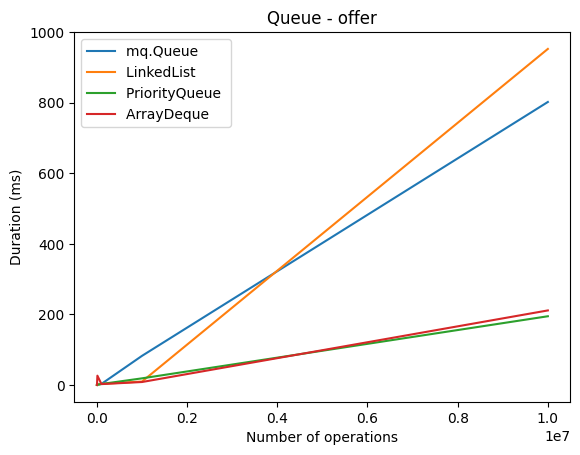
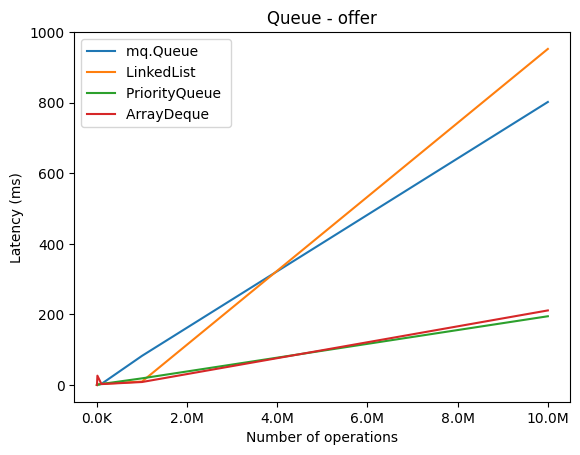
feat: added writing for performance benchmark

diff --git a/mq/plot.py b/mq/plot.py
@@ -5,59 +5,62 @@ import matplotlib.ticker as tkr
 
 fig, ax = plt.subplots()
 
-file_path = 'data/benchmark.csv'
+file_path = "data/benchmark.csv"
 df = pd.read_csv(file_path)
-df['throughput'] = (df['ops'] / df['duration']) * 1e9
+df["throughput"] = df["ops"] / (df["duration"] / 1e9)
 
-poll_df = df[df['name'].str.contains('poll')]
-poll_df['name'].update(poll_df['name'].map(lambda n: n[1:].split('-')[0]))
+poll_df = df[df["name"].str.contains("poll")]
+poll_df["name"].update(poll_df["name"].map(lambda n: n[1:].split("-")[0]))
 
-offer_df = df[df['name'].str.contains('offer')]
-offer_df['name'].update(offer_df['name'].map(lambda n: n[1:].split('-')[0]))
+offer_df = df[df["name"].str.contains("offer")]
+offer_df["name"].update(offer_df["name"].map(lambda n: n[1:].split("-")[0]))
+
 
 def format(num, pos):
+    print(num)
     if num > 1000000:
         if not num % 1000000:
-            return f'{num // 1000000}M'
-        return f'{round(num / 1000000, 1)}M'
-    return f'{num // 1000}K'
+            return f"{num // 1000000}M"
+        return f"{round(num / 1000000, 1)}M"
+    return f"{num // 1000}K"
+
 
 # Iterate through unique 'name' values for 'poll' action
-for name in poll_df['name'].unique():
-    subset_df = poll_df[(poll_df['name'] == name)]
-    plt.plot(subset_df['ops'], subset_df['duration'] / 1e6, label=name)
+for name in poll_df["name"].unique():
+    subset_df = poll_df[(poll_df["name"] == name)]
+    plt.plot(subset_df["ops"], subset_df["duration"] / 1e6, label=name)
 
-plt.xlabel('Number of operations')
-plt.ylabel('Duration (ms)')
+plt.xlabel("Number of operations")
+plt.ylabel("Latency (ms)")
 ax.xaxis.set_major_formatter(tkr.FuncFormatter(format))
-plt.title('Queue - poll')
+plt.title("Queue - poll")
 plt.legend()
-plt.savefig(f'images/benchmark_poll.png', bbox_inches='tight')
+plt.savefig("images/benchmark_poll.png", bbox_inches="tight")
 plt.clf()
 
 # Iterate through unique 'name' values for 'offer' action
-for name in offer_df['name'].unique():
-    subset_df = offer_df[(offer_df['name'] == name)]
-    plt.plot(subset_df['ops'], subset_df['duration'] / 1e6, label=name)
+for name in offer_df["name"].unique():
+    subset_df = offer_df[(offer_df["name"] == name)]
+    plt.plot(subset_df["ops"], subset_df["duration"] / 1e6, label=name)
 
-plt.xlabel('Number of operations')
-plt.ylabel('Duration (ms)')
+plt.xlabel("Number of operations")
+plt.ylabel("Latency (ms)")
 ax.xaxis.set_major_formatter(tkr.FuncFormatter(format))
-plt.title('Queue - offer')
+plt.title("Queue - offer")
 plt.legend()
-plt.savefig(f'images/benchmark_offer.png', bbox_inches='tight')
+plt.savefig("images/benchmark_offer.png", bbox_inches="tight")
 plt.clf()
 
 # Define a color map for 'name' values
-name_colors = plt.cm.rainbow(np.linspace(0, 1, len(df['name'].unique())))
+name_colors = plt.cm.rainbow(np.linspace(0, 1, len(df["name"].unique())))
 
 # Iterate through unique 'ops' values
-for df, action in [(poll_df, 'poll'), (offer_df, 'offer')]:
-    for ops in df['ops'].unique():
-        subset_df = df[df['ops'] == ops]
+for df, action in [(poll_df, "poll"), (offer_df, "offer")]:
+    for ops in df["ops"].unique():
+        subset_df = df[df["ops"] == ops]
 
         # Get unique 'name' values for the current 'ops' value
-        unique_names = subset_df['name'].unique()
+        unique_names = subset_df["name"].unique()
 
         # Define a color map for the current 'ops' value
         name_colors = plt.cm.rainbow(np.linspace(0, 1, len(unique_names)))
@@ -66,13 +69,18 @@ for df, action in [(poll_df, 'poll'), (offer_df, 'offer')]:
 
         # Iterate through unique 'name' values for the current 'ops' value
         for i, name in enumerate(unique_names):
-            name_subset_df = subset_df[subset_df['name'] == name]
-            plt.bar(name, name_subset_df['throughput'].iloc[0], label=str(name), color=name_colors[i])
+            name_subset_df = subset_df[subset_df["name"] == name]
+            plt.bar(
+                name,
+                name_subset_df["throughput"].iloc[0],
+                label=str(name),
+                color=name_colors[i],
+            )
 
-        plt.xlabel('Queue')
-        plt.ylabel('Throughput (op/s)')
+        plt.xlabel("Queue")
+        plt.ylabel("Throughput (op/s)")
         ax.yaxis.set_major_formatter(tkr.FuncFormatter(format))
-        plt.title(f'{action} - {ops} operations')
-        plt.legend(title='Ops', loc='upper right')
-        plt.savefig(f'images/benchmark_{action}_{ops}.png', bbox_inches='tight')
+        plt.title(f"{action} - {ops} operations")
+        plt.legend(title="Ops", loc="upper right")
+        plt.savefig(f"images/benchmark_{action}_{ops}.png", bbox_inches="tight")
         plt.clf()

diff --git a/mq/README.md b/mq/README.md
@@ -16,6 +16,8 @@
     - [Code design](#code-design)
 4. [Use cases](#use-cases)
 5. [Performance benchmark](#performance-benchmark)
+    - [Latency analysis](#latency-analysis)
+    - [Throughput analysis](#throughput-analysis)
 
 ## Abstract <a id="abstract"></a>
 
@@ -169,7 +171,52 @@ For example, the following snippet is taken from the test code and it shows the 
 
 ## Performance benchmark <a id="performance-benchmark"></a>
 
-...
+To measure how well our implementation of queue performs, we designed a benchmark to compare the latency and throughput of `mq.Queue` against queue implementations from the Java standard library, namely `LinkedList`, `PriorityQueue` and `ArrayDeque`. The benchmark code can be found in `src/benchmark/Main.java` and these plots are generated by running `plot.py` which uses `matplotlib` to visualise the outputs from the benchmark program.
+
+### Latency analysis <a id="latency-analysis"></a>
+
+<div align="center" style="display: flex;">
+    <img src="images/benchmark_offer.png" style="width: 50%; margin-right: 1em" />
+    <img src="images/benchmark_poll.png" style="width: 50%" />
+</div>
+
+*<div align="center">Figure 5: Latency for offer and poll across different queues</div>*
+
+From figure 5 above we can see two charts, one for the **offer** operation which enqueue an element at the tail and the other for the **poll** operation which dequeue an element from the head. We can see that for the **offer** operation, both `ArrayDeque` and `PriorityQueue` performed significantly faster than `LinkedList` and `mq.Queue` which are both based on linked list under the hood. Our speculation is that as number of operation increases, the effect of cache locality starts to show its significance since both `ArrayDeque` and `PriorityQueue` uses array under the hood to store the elements. In addition, one interesting observation is that the latency for `ArrayDeque` spiked at around 0 - 10k operations, this is expected since the underlying array has to resize when the insertion exceeds the current capacity.
+
+As for the **poll** operation, `PriorityQueue` performed the worst and from the graph we can clearly see that `mq.Queue`, `ArrayDeque` and `LinkedList` scaled well as the number of operations increases which is close to constant time *O(1)*. This is due to the fact that `PriorityQueue` uses a binary heap under the hood which implies ordering hence to poll (remove) an element it has to find the element in heap which results in a *O(log n)* time complexity.
+
+### Throughput analysis <a id="throughput-analysis"></a>
+
+<div align="center" style="display: grid; gap: 1em; grid-template-rows: repeat(2, minmax(0, 1fr)); 	grid-template-columns: repeat(3, minmax(0, 1fr));">
+    <img src="images/benchmark_offer_100.png" />
+    <img src="images/benchmark_offer_1000.png" />
+    <img src="images/benchmark_offer_10000.png" />
+    <img src="images/benchmark_offer_100000.png" />
+    <img src="images/benchmark_offer_1000000.png" />
+    <img src="images/benchmark_offer_10000000.png" />
+</div>
+
+*<div align="center">Figure 6: Throughput comparison for offer across different queues</div>*
+
+Figure 6 above shows the throughput for the `offer` operation across different number of operations which measure the operations that the queue can process per second. Here we can observe that `ArrayDeque` has the highest throughput in most scenarios except at 10k operations where it performed marginally slower than the others, this is due to the resizing issue as can also be seen in Figure 5 above. As for `mq.Queue`, it performed generally well between 1k - 100k operations beating `LinkedList` and `PriorityQueue` and is on par with `ArrayDeque` at 1k operations.
+
+<div align="center" style="display: grid; gap: 1em; grid-template-rows: repeat(2, minmax(0, 1fr)); 	grid-template-columns: repeat(3, minmax(0, 1fr));">
+    <img src="images/benchmark_poll_100.png" />
+    <img src="images/benchmark_poll_1000.png" />
+    <img src="images/benchmark_poll_10000.png" />
+    <img src="images/benchmark_poll_100000.png" />
+    <img src="images/benchmark_poll_1000000.png" />
+    <img src="images/benchmark_poll_10000000.png" />
+</div>
+
+*<div align="center">Figure 7: Throughput comparison for poll across different queues</div>*
+
+Figure 7 above shows the throughput for the poll operation and as can be seen, both `mq.Queue` and `ArrayDeque` outperformed the others significantly with `mq.Queue` having higher throughput at 100 and 1000 operations and `ArrayDeque` performed the best in other number of operations.
+
+### Conclusion
+
+From the analysis that we have performed we can deduce that generally `ArrayDeque` has the highest performance except for the fact that it has resizing issue which can introduce latency spikes (jitter). Although this can be solved by reserving a large chunk of memory but it incurs an overhead in memory cost when these reserved space are not being used. Considering that we do not expect a high traffic for our message queue, `mq.Queue` is still the best choice for an expected traffic of 0 - 100k operations while only uses memory that it needs.
 
 ## References
 
